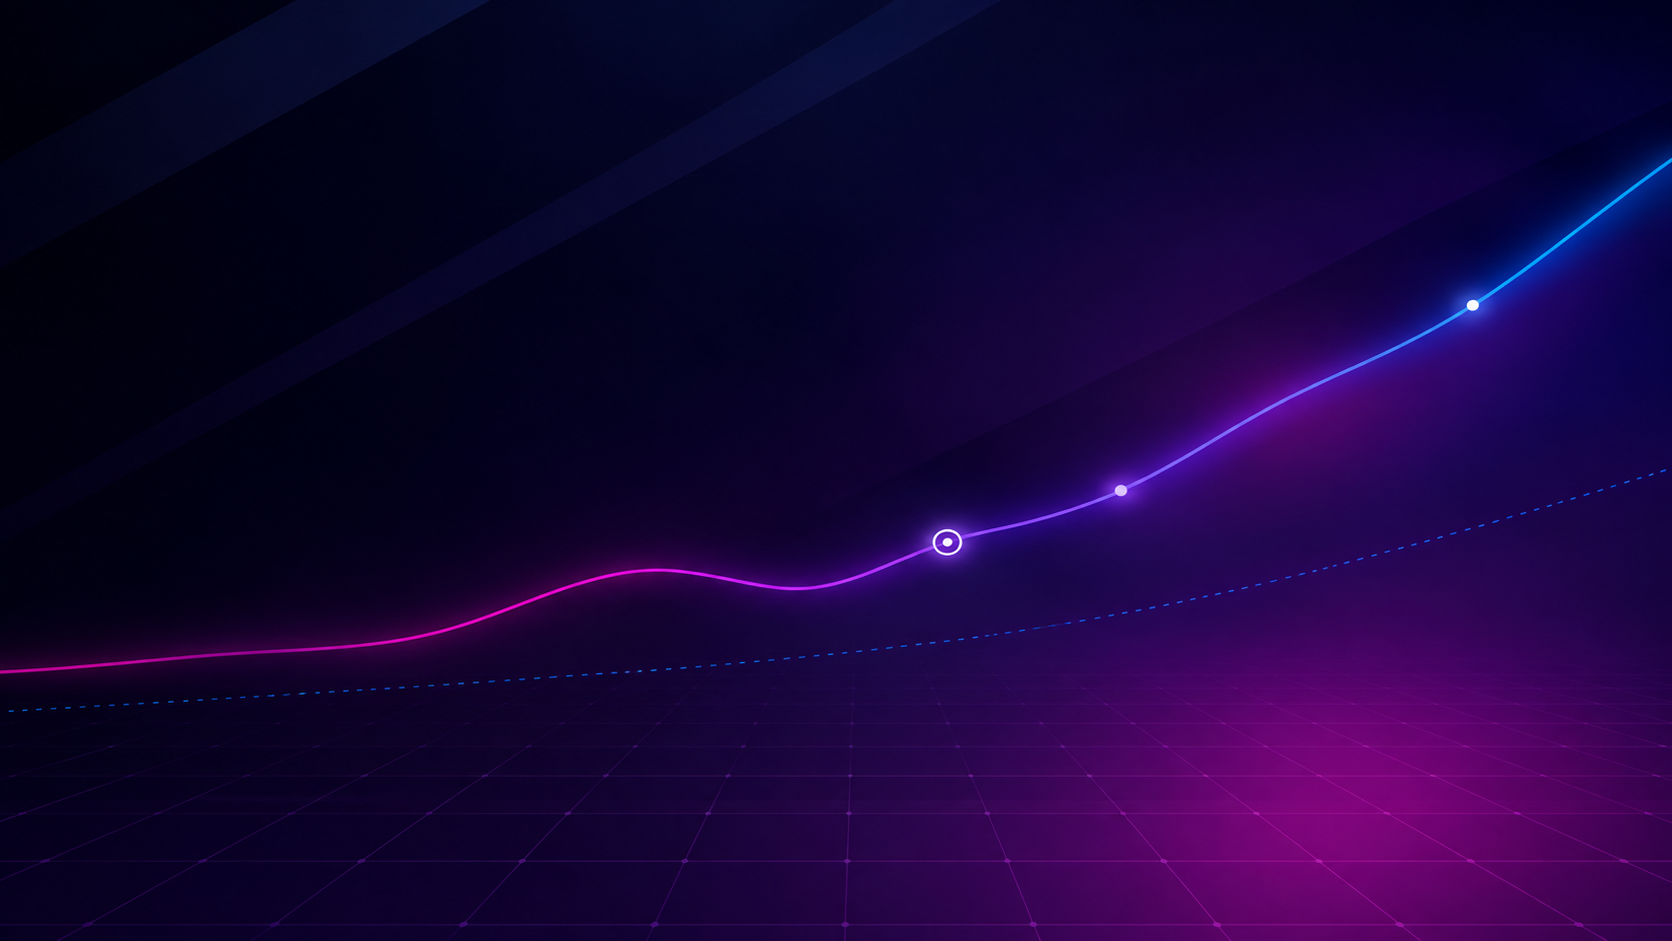
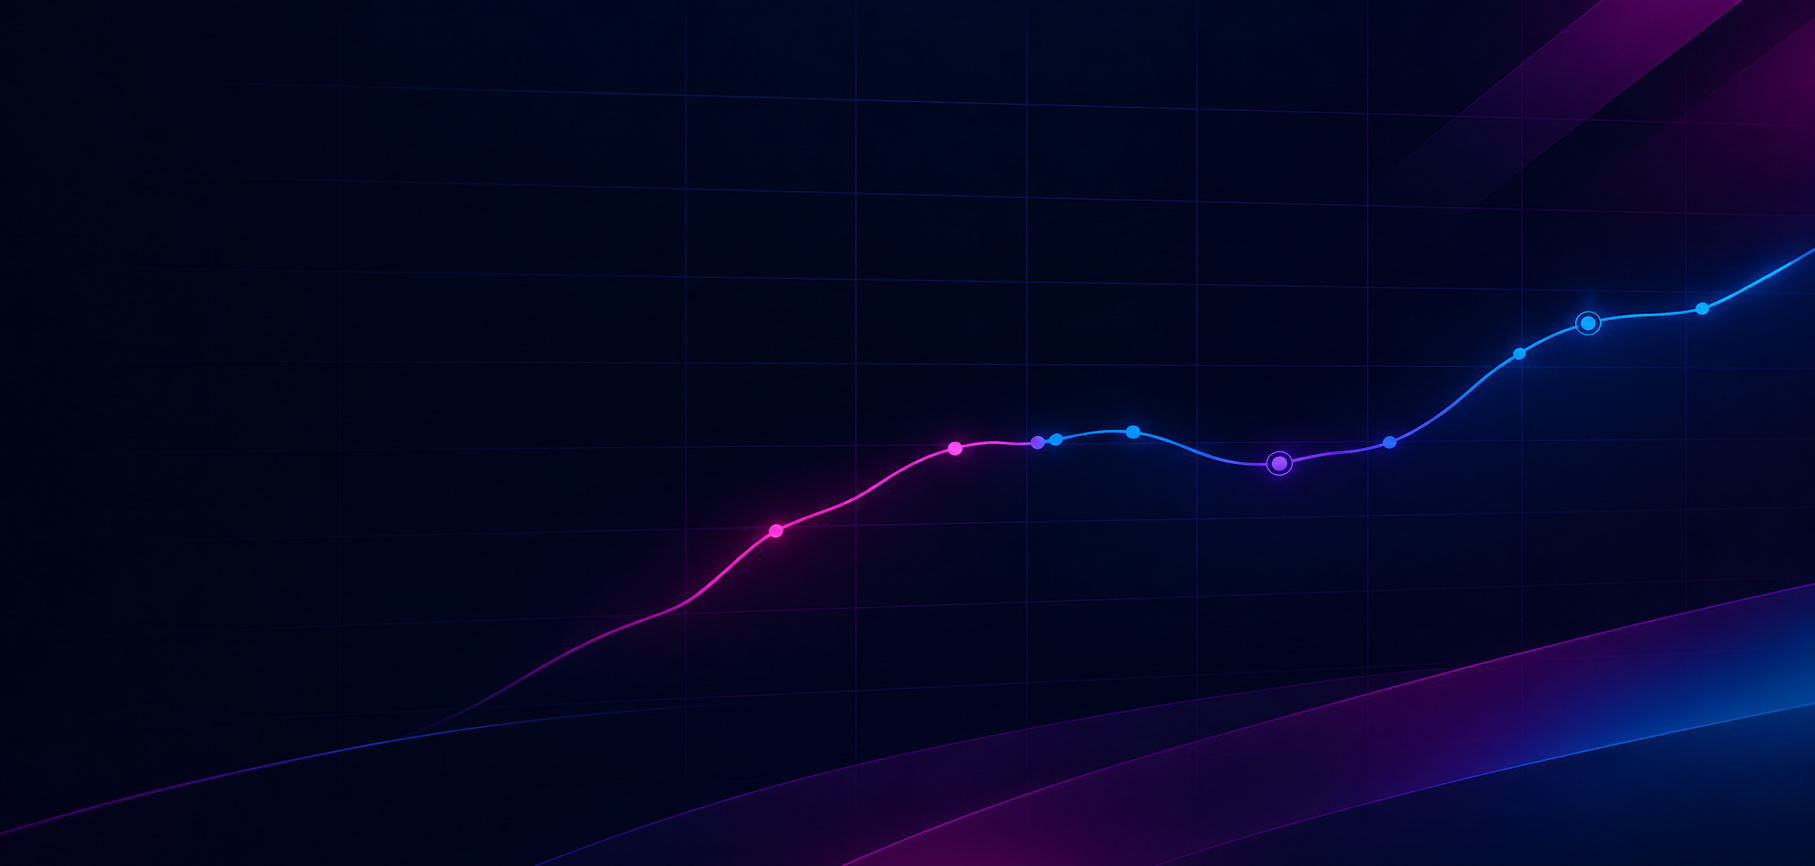
loginTerminado

diff --git a/login-react-mmint-brand/src/styles/style_leftLogin.css b/login-react-mmint-brand/src/styles/style_leftLogin.css
@@ -1,14 +1,248 @@
 .panel-presentacion {
-  position: relative; min-height: 100vh; padding: 64px clamp(48px, 7vw, 110px) 72px;
-  display: flex; flex-direction: column; justify-content: center; overflow: hidden;
-  background: #010214 url("../image/fondoLeft.png") left center / cover no-repeat; color: #fff;
+  position: relative;
+  min-height: 100vh;
+  padding: 64px clamp(48px, 7vw, 110px) 72px;
+  display: flex;
+  flex-direction: column;
+  justify-content: center;
+  overflow: hidden;
+  background-image:
+    linear-gradient(90deg, rgba(1, 2, 20, 0.52) 0%, rgba(1, 2, 20, 0.16) 52%, rgba(1, 2, 20, 0.08) 100%),
+    url("../image/fondoLeft.png");
+  background-position: center, 58% 55%;
+  background-size: cover, auto 108%;
+  background-repeat: no-repeat;
+  color: #fff;
 }
-.presentacion-titulo { max-width: 790px; margin: 0 0 22px; font-family: "Pattanakarn", "Fredoka", sans-serif; font-size: clamp(36px, 3.25vw, 56px); font-weight: 600; line-height: 1.08; letter-spacing: -1.25px; color: #fff; }
-.titulo-destacado { display: block; margin-top: 8px; background: linear-gradient(90deg, #c0003f, #ff3dcb); -webkit-background-clip: text; background-clip: text; color: transparent; }
-.presentacion-texto { max-width: 610px; margin: 0 0 40px; font-size: clamp(15px, 1.1vw, 18px); line-height: 1.65; color: #b7c7e4; }
-.beneficio { display: flex; align-items: center; gap: 20px; max-width: 570px; margin-bottom: 21px; }
-.beneficio-icono { width: 56px; height: 56px; flex: 0 0 56px; padding: 15px; border: 1px solid #ff3dcb; border-radius: 50%; background: rgba(192, 0, 63, .12); filter: brightness(0) saturate(100%) invert(37%) sepia(97%) saturate(4276%) hue-rotate(320deg) brightness(90%) contrast(101%); }
-.beneficio p { margin: 0; font-size: 16px; line-height: 1.45; color: #b7c7e4; }
-.beneficio span { font-weight: 700; color: #fff; }
-.presentacion-pie { position: absolute; bottom: 28px; left: clamp(40px, 6vw, 104px); margin: 0; font-size: 13px; color: #6b6f85; }
-@media (max-width: 900px) { .panel-presentacion { display: none; } }
+
+/* Oscurece suavemente las zonas para mejorar la lectura */
+.panel-presentacion::before {
+  content: "";
+  position: absolute;
+  inset: 0;
+  pointer-events: none;
+  background:
+    radial-gradient(
+      circle at 12% 15%,
+      rgba(33, 155, 255, 0.2),
+      transparent 34%
+    ),
+    radial-gradient(
+      circle at 90% 82%,
+      rgba(255, 61, 203, 0.22),
+      transparent 38%
+    ),
+    linear-gradient(180deg, rgba(1, 2, 20, 0.06), rgba(1, 2, 20, 0.5));
+}
+
+/* Detalle decorativo de fondo */
+.panel-presentacion::after {
+  content: "";
+  position: absolute;
+  z-index: 0;
+  right: -16%;
+  bottom: -28%;
+  width: 58%;
+  aspect-ratio: 1;
+  pointer-events: none;
+  border-radius: 50%;
+  background: radial-gradient(circle, rgba(85, 0, 161, .24), rgba(255, 61, 203, .07) 40%, transparent 70%);
+  filter: blur(20px);
+}
+
+/* Deja textos e íconos por encima del fondo */
+.panel-presentacion > * {
+  position: relative;
+  z-index: 1;
+}
+.presentacion-titulo {
+  max-width: 790px;
+  margin: 0 0 22px;
+  font-family: "Pattanakarn", "Fredoka", sans-serif;
+  font-size: clamp(36px, 3.25vw, 56px);
+  font-weight: 600;
+  line-height: 1.08;
+  letter-spacing: -1.25px;
+  color: #fff;
+}
+.titulo-destacado {
+  display: block;
+  margin-top: 8px;
+  background: linear-gradient(90deg, #c0003f, #ff3dcb);
+  -webkit-background-clip: text;
+  background-clip: text;
+  color: transparent;
+}
+.presentacion-texto {
+  max-width: 610px;
+  margin: 0 0 40px;
+  font-size: clamp(15px, 1.1vw, 18px);
+  line-height: 1.65;
+  color: #b7c7e4;
+}
+
+.panel-preview {
+  position: absolute;
+  z-index: 2;
+  top: clamp(50px, 8vh, 92px);
+  right: clamp(32px, 5vw, 84px);
+  width: min(28vw, 310px);
+  padding: 18px 20px 14px;
+  border: 1px solid rgba(178, 193, 231, .18);
+  border-radius: 18px;
+  background: linear-gradient(145deg, rgba(17, 14, 39, .82), rgba(10, 8, 26, .62));
+  box-shadow: 0 16px 38px rgba(0, 0, 0, .22), inset 0 1px 0 rgba(255, 255, 255, .05);
+  backdrop-filter: blur(7px);
+}
+
+.panel-preview-cabecera {
+  display: flex;
+  align-items: center;
+  gap: 8px;
+  padding-bottom: 12px;
+  border-bottom: 1px solid rgba(178, 193, 231, .12);
+  color: #b9b6c9;
+  font-size: 11px;
+  font-weight: 700;
+  letter-spacing: 1.6px;
+  text-transform: uppercase;
+}
+
+.panel-preview-cabecera small {
+  margin-left: auto;
+  color: #8f8b9d;
+  font-size: 8px;
+  font-weight: 600;
+  letter-spacing: .6px;
+}
+
+.indicador-activo {
+  width: 9px;
+  height: 9px;
+  border-radius: 50%;
+  background: #29d990;
+  box-shadow: 0 0 0 5px rgba(41, 217, 144, .12), 0 0 14px rgba(41, 217, 144, .7);
+}
+
+.panel-preview-fila {
+  display: grid;
+  grid-template-columns: 1fr auto auto;
+  align-items: center;
+  gap: 9px;
+  padding: 12px 0 0;
+  color: #aaa7ba;
+  font-size: 11px;
+  font-weight: 700;
+  letter-spacing: .7px;
+  text-transform: uppercase;
+}
+
+.panel-preview-fila + .panel-preview-fila {
+  margin-top: 10px;
+  padding-top: 10px;
+  border-top: 1px solid rgba(178, 193, 231, .1);
+}
+
+.panel-preview-fila strong {
+  color: #fff;
+  font-family: "Fredoka", sans-serif;
+  font-size: 18px;
+  letter-spacing: 0;
+}
+
+.panel-preview-fila em,
+.dato-flotante span {
+  color: #29d990;
+  font-size: 11px;
+  font-style: normal;
+  font-weight: 700;
+  letter-spacing: 0;
+}
+
+.dato-flotante {
+  position: absolute;
+  z-index: 2;
+  width: 126px;
+  padding: 12px 14px 11px 18px;
+  border: 1px solid rgba(178, 193, 231, .2);
+  border-radius: 12px;
+  background: rgba(20, 15, 43, .78);
+  box-shadow: 0 12px 26px rgba(0, 0, 0, .22);
+  backdrop-filter: blur(6px);
+}
+
+.dato-flotante::before {
+  content: "";
+  position: absolute;
+  top: 12px;
+  bottom: 12px;
+  left: 0;
+  width: 3px;
+  border-radius: 0 3px 3px 0;
+  background: #ff3dcb;
+}
+
+.dato-flotante strong {
+  display: block;
+  margin-bottom: 5px;
+  color: #fff;
+  font-family: "Fredoka", sans-serif;
+  font-size: 17px;
+  letter-spacing: .1px;
+}
+
+.dato-flotante-uno {
+  right: clamp(110px, 17vw, 245px);
+  bottom: 30%;
+}
+
+.dato-flotante-dos {
+  right: clamp(315px, 35vw, 500px);
+  bottom: 13%;
+}
+.beneficio {
+  display: flex;
+  align-items: center;
+  gap: 20px;
+  max-width: 570px;
+  margin-bottom: 21px;
+}
+.beneficio-icono {
+  width: 56px;
+  height: 56px;
+  flex: 0 0 56px;
+  padding: 15px;
+  border: 1px solid #ff3dcb;
+  border-radius: 50%;
+  background: rgba(192, 0, 63, 0.12);
+  filter: brightness(0) saturate(100%) invert(37%) sepia(97%) saturate(4276%)
+    hue-rotate(320deg) brightness(90%) contrast(101%);
+}
+.beneficio p {
+  margin: 0;
+  font-size: 16px;
+  line-height: 1.45;
+  color: #b7c7e4;
+}
+.beneficio span {
+  font-weight: 700;
+  color: #fff;
+}
+.presentacion-pie {
+  position: absolute;
+  bottom: 28px;
+  left: clamp(40px, 6vw, 104px);
+  margin: 0;
+  font-size: 13px;
+  color: #6b6f85;
+}
+@media (max-width: 900px) {
+  .panel-presentacion {
+    display: none;
+  }
+}
+
+@media (max-width: 1250px) {
+  .panel-preview { opacity: .75; transform: scale(.88); transform-origin: top right; }
+  .dato-flotante { transform: scale(.85); transform-origin: right center; }
+}

diff --git a/login-react-mmint-brand/src/pages/PageLeft.jsx b/login-react-mmint-brand/src/pages/PageLeft.jsx
@@ -16,6 +16,36 @@ export function PageLeft() {
         en el mercado. Detectá desvíos, controlá sellers autorizados y tomá
         decisiones basadas en datos reales
       </p>
+      <aside className="panel-preview" aria-label="Vista previa ilustrativa">
+        <div className="panel-preview-cabecera">
+          <span className="indicador-activo" />
+          <span>Market monitor</span>
+          <small>Vista previa</small>
+        </div>
+        <div className="panel-preview-fila">
+          <span>Sellers</span>
+          <strong>142</strong>
+          <em>▲ 6.4%</em>
+        </div>
+        <div className="panel-preview-fila">
+          <span>Publicaciones</span>
+          <strong>1.284</strong>
+          <em>▲ 12.6%</em>
+        </div>
+        <div className="panel-preview-fila">
+          <span>Variación</span>
+          <strong>+8.4%</strong>
+          <em>▲</em>
+        </div>
+      </aside>
+      <div className="dato-flotante dato-flotante-uno" aria-hidden="true">
+        <strong>$ 52.490</strong>
+        <span>▲ +12.4%</span>
+      </div>
+      <div className="dato-flotante dato-flotante-dos" aria-hidden="true">
+        <strong>$ 48.500</strong>
+        <span>▲ +6.7%</span>
+      </div>
       <div className="beneficio">
         <img className="beneficio-icono" src={lupa} alt="" />
         <p>
